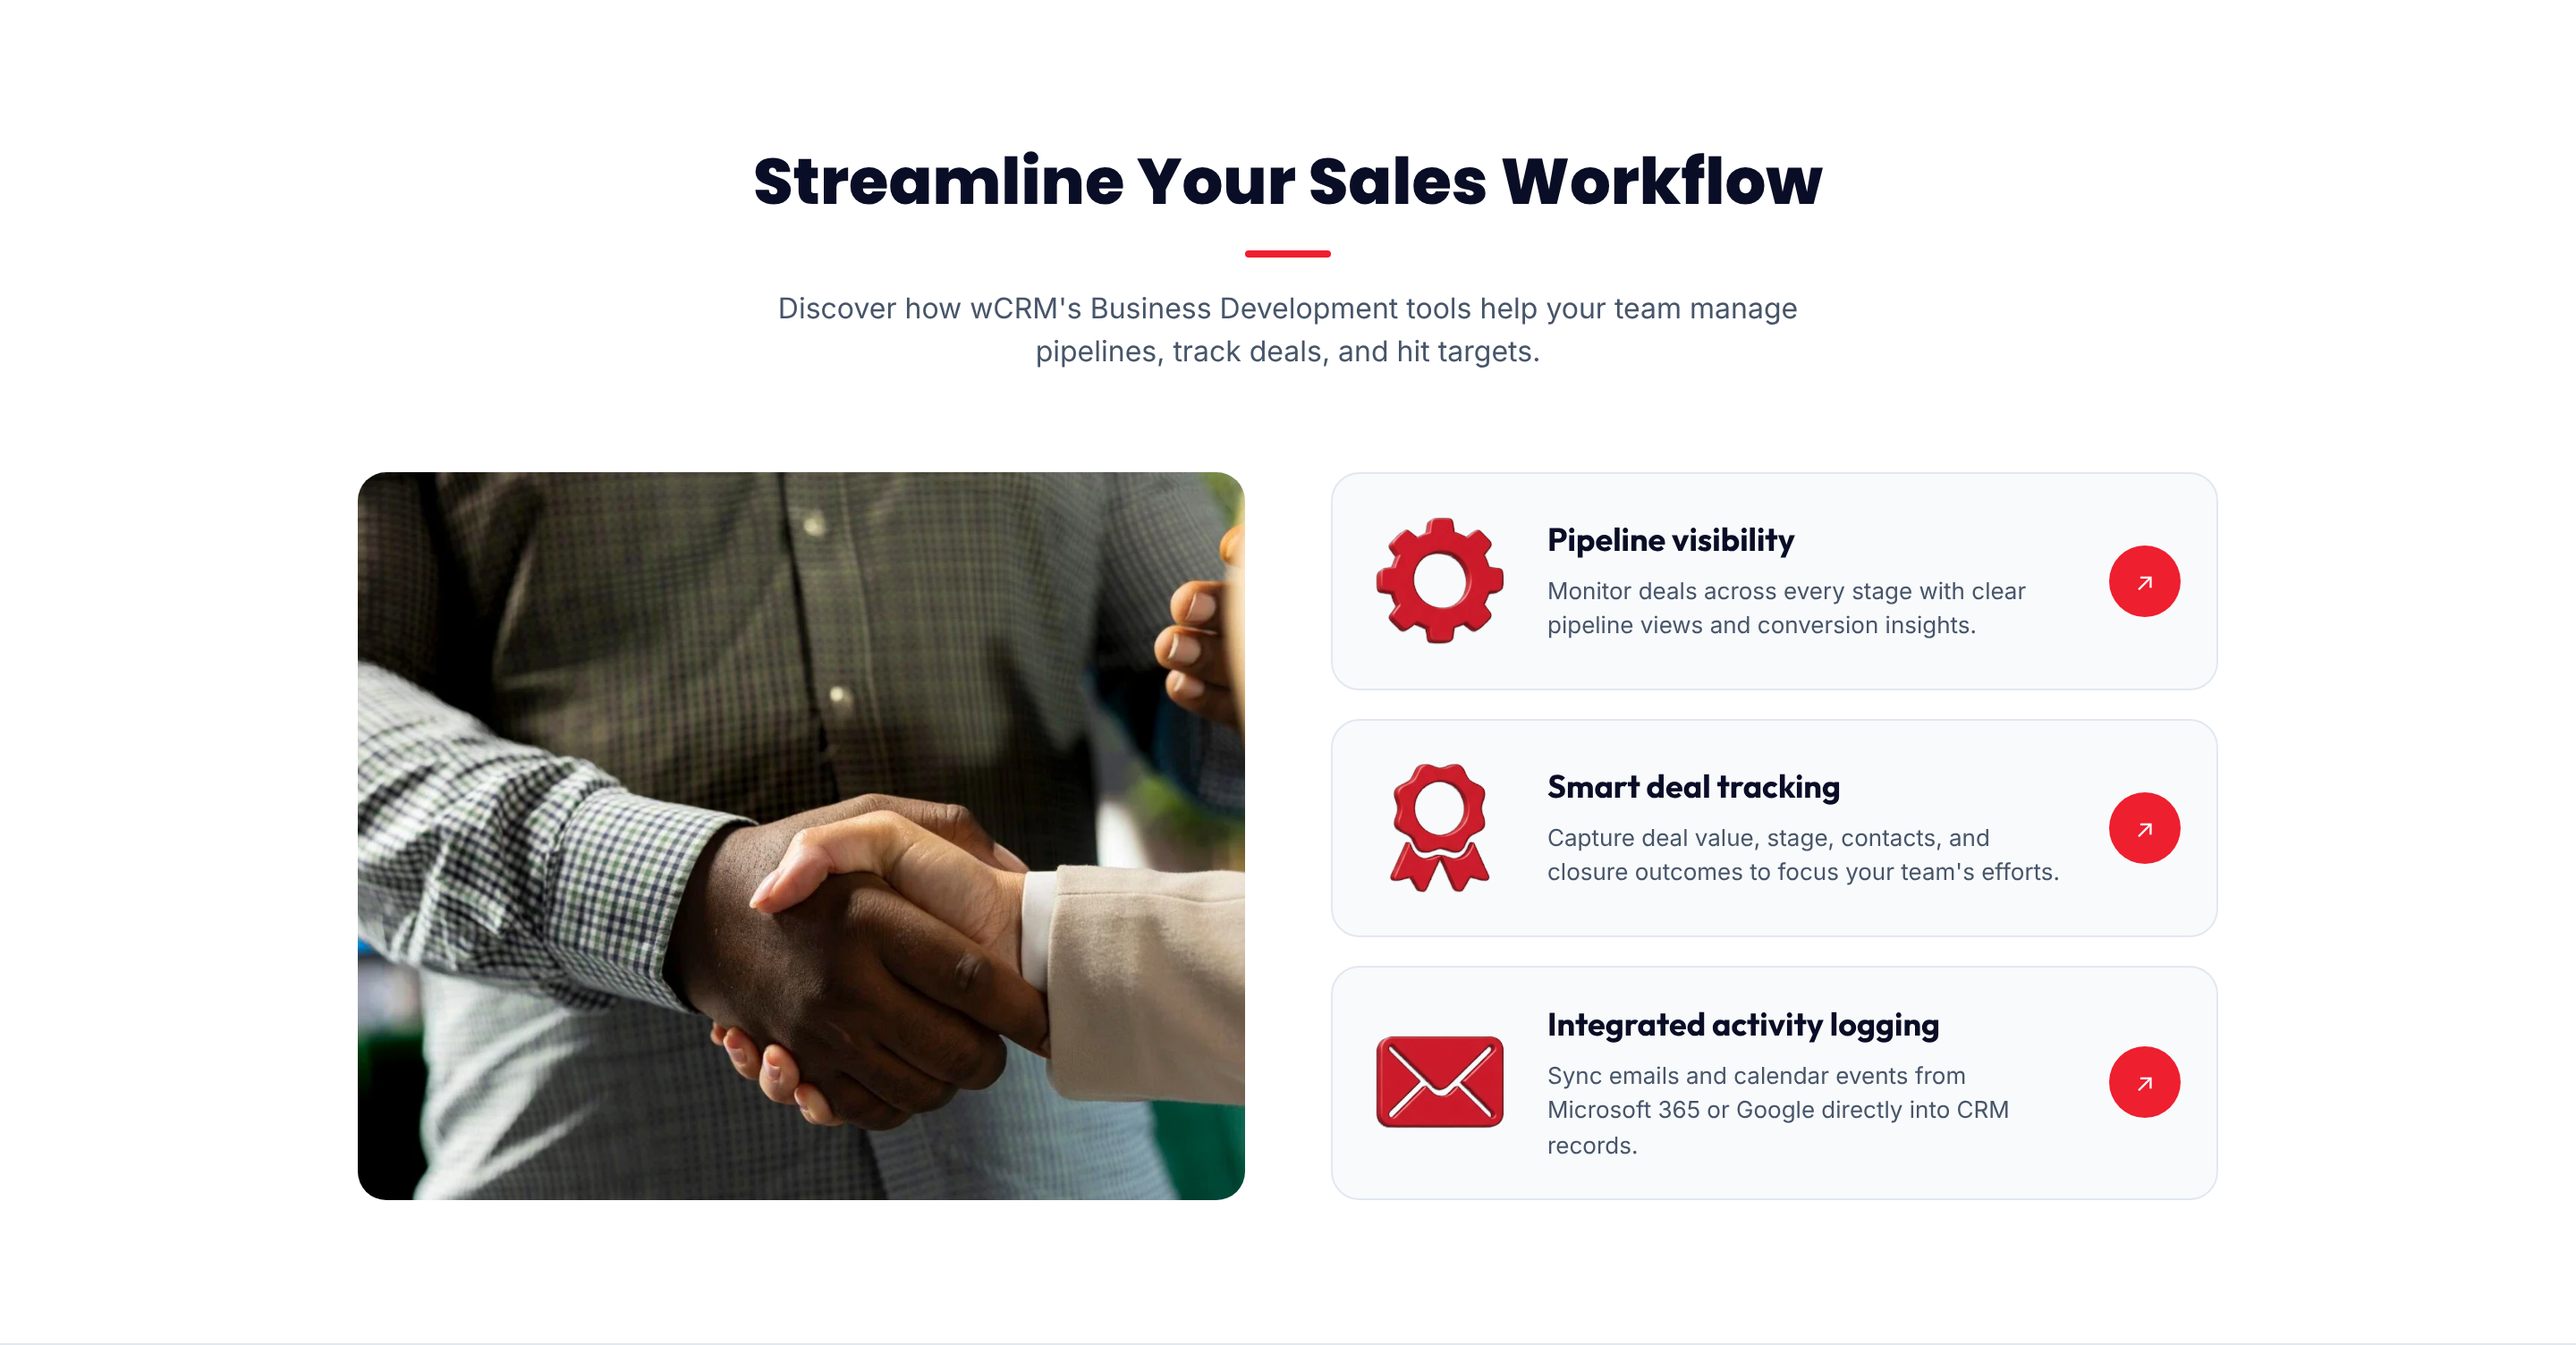
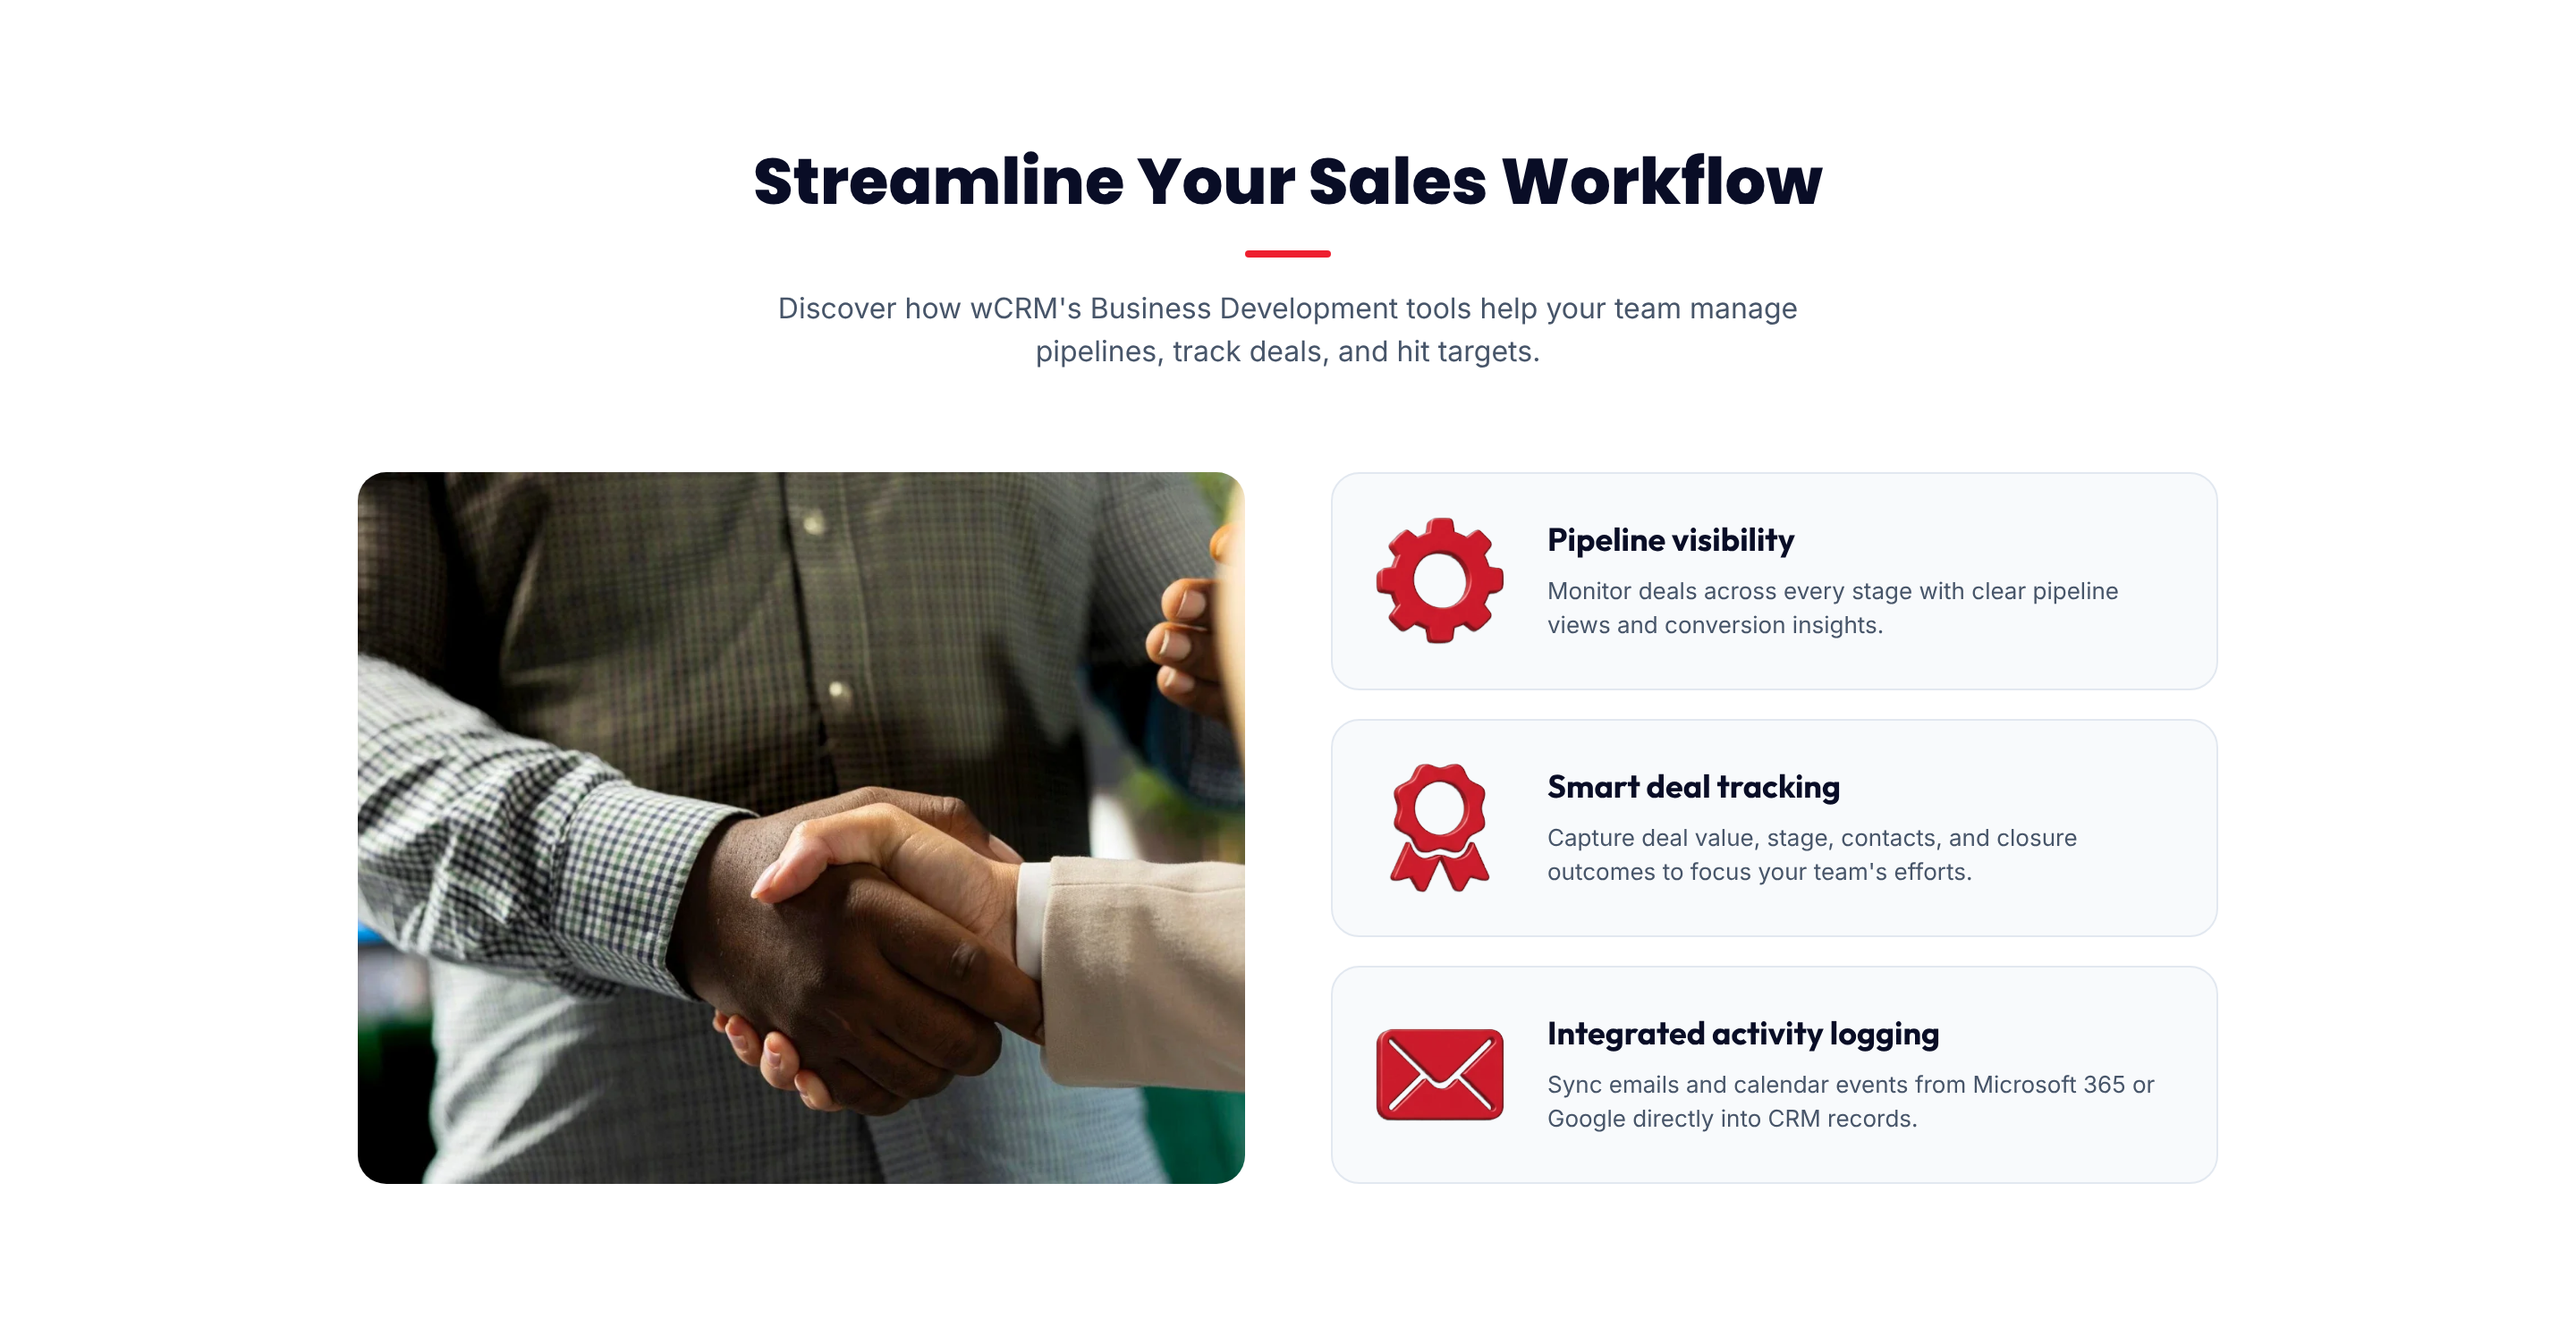
Concept homepage: plain See it at work shots; no buttons in Streamline
- See it at work: browser bar (dots and address) and arrow link removed;
  the shot sits in a plain rounded frame.
- Streamline cards no longer carry arrow links.

Claude-Session: https://claude.ai/code/session_01LwcCAsQhzDMqnBSRHS6q74

diff --git a/wCRM-website/src/pages/ConceptPage.tsx b/wCRM-website/src/pages/ConceptPage.tsx
@@ -458,11 +458,11 @@ function SocialProof() {
 
 /* 4 · Product tour (design-system Tabs) ------------------------------------------------------------------- */
 
-const SCREENS: { id: ShotId; label: string; to: string; points: string[] }[] = [
-  { id: 'deals', label: 'Deals', to: '/features/deal-management', points: ['Open, won and lost totals above the register', 'Profit and expected profit on every deal', 'Stage changes in one click'] },
-  { id: 'contacts', label: 'Contacts', to: '/features/contact-management', points: ['Import the lists you already keep', 'An owner on every contact', 'Search by name, email or company'] },
-  { id: 'reports', label: 'Reports', to: '/features/activities-reporting', points: ['Goal realization at a glance', 'Revenue by business stream', 'Export for reviews and board packs'] },
-  { id: 'budgets', label: 'Budgets', to: '/features/budget-targets', points: ['Targets split by team and practice area', 'Achieved from closed deals', 'Variance per allocation'] },
+const SCREENS: { id: ShotId; label: string; points: string[] }[] = [
+  { id: 'deals', label: 'Deals', points: ['Open, won and lost totals above the register', 'Profit and expected profit on every deal', 'Stage changes in one click'] },
+  { id: 'contacts', label: 'Contacts', points: ['Import the lists you already keep', 'An owner on every contact', 'Search by name, email or company'] },
+  { id: 'reports', label: 'Reports', points: ['Goal realization at a glance', 'Revenue by business stream', 'Export for reviews and board packs'] },
+  { id: 'budgets', label: 'Budgets', points: ['Targets split by team and practice area', 'Achieved from closed deals', 'Variance per allocation'] },
 ];
 
 function ProductTour() {
@@ -486,17 +486,8 @@ function ProductTour() {
                   </li>
                 ))}
               </ul>
-              <div className="flex flex-1 flex-col overflow-hidden rounded-xl border border-border-default bg-surface-default shadow-lg">
-                <div aria-hidden="true" className="flex items-center gap-1.5 border-b border-border-default bg-surface-subtle px-4 py-3">
-                  <span className="size-2.5 rounded-full bg-status-danger" />
-                  <span className="size-2.5 rounded-full bg-status-warning-bright" />
-                  <span className="size-2.5 rounded-full bg-status-success" />
-                  <span className="ml-4 flex-1 rounded-full bg-surface-sunken px-3 py-0.5 text-caption-xs text-text-muted">app.wcrm.com/{s.id}</span>
-                </div>
-                <div className="relative">
-                  <FullShot id={s.id} header={false} />
-                  <ArrowLink to={s.to} label={`See more about ${s.label}`} className="absolute bottom-4 right-4 shadow-lg" />
-                </div>
+              <div className="flex-1 overflow-hidden rounded-xl border border-border-default bg-surface-default shadow-lg">
+                <FullShot id={s.id} header={false} />
               </div>
             </div>
           </TabsContent>
@@ -551,9 +542,9 @@ function Foundation({ suggest }: { suggest: boolean }) {
 
 /* Copy from the homepage "Streamline Your Sales Workflow" section (Figma 691:5050); 3D icons supplied for this page. */
 const NEEDS = [
-  { title: 'Pipeline visibility', body: 'Monitor deals across every stage with clear pipeline views and conversion insights.', img: icon3dGear, to: '/features/deal-management' },
-  { title: 'Smart deal tracking', body: "Capture deal value, stage, contacts, and closure outcomes to focus your team's efforts.", img: icon3dAward, to: '/features/deal-management' },
-  { title: 'Integrated activity logging', body: 'Sync emails and calendar events from Microsoft 365 or Google directly into CRM records.', img: icon3dEnvelope, to: '/features/activities-reporting' },
+  { title: 'Pipeline visibility', body: 'Monitor deals across every stage with clear pipeline views and conversion insights.', img: icon3dGear },
+  { title: 'Smart deal tracking', body: "Capture deal value, stage, contacts, and closure outcomes to focus your team's efforts.", img: icon3dAward },
+  { title: 'Integrated activity logging', body: 'Sync emails and calendar events from Microsoft 365 or Google directly into CRM records.', img: icon3dEnvelope },
 ];
 
 function Streamline() {
@@ -570,7 +561,6 @@ function Streamline() {
                 <h3 className="font-outfit text-heading-2 text-site-ink">{n.title}</h3>
                 <p className="text-body-sm leading-150 text-text-slate">{n.body}</p>
               </div>
-              <ArrowLink to={n.to} label={`See more about ${n.title.toLowerCase()}`} />
             </li>
           ))}
         </ul>

diff --git a/wCRM-website/README.md b/wCRM-website/README.md
@@ -23,7 +23,7 @@ app's `node_modules`.
 | `/pricing` | `crm-pricing-page` (231:636): Monthly / Annual switch, plan cards, "Compare every included feature" table (`/pricing#compare` opens it; the homepage "View comparisons" button links there) |
 | `/contact` | `crm-contact-sales` (231:1058) → sent state (367:10351) |
 | `/features/:id` | Not in Figma; built in the site's style. One page per homepage feature (`contact-management`, `deal-management`, `activities-reporting`, `budget-targets`): hero with the product screen, capabilities, how it works, related features, call-to-action band. Content lives in `src/data/features.ts` |
-| `/concept` | Not in Figma; a concept homepage that applies a classic corporate-site layout (utility bar, photo hero, overlapping modules card, values band, "Streamline Your Sales Workflow", closing band) to wCRM, built from the site's components. "What wCRM does" is a bento grid of the seven Business Development modules (Budgets, Reports, Deals, Companies, Contacts, Activity, Orbit AI): each card holds a product widget (sample data, design-system tokens) or a product shot, with the title and description over a bottom vignette and the sidebar's design-system icon. Cards, widgets and the vignette (`bg-site-vignette`, built on `surface-subtle`) follow the page theme. Product shots come from `src/components/MarketingShots.tsx`: full pages without the top bar in the "See it at work" browser frames, inset (straight) Deals and Company windows in the bento. "Streamline Your Sales Workflow" uses the homepage section's copy, a supplied handshake photo and supplied 3D icons (`src/assets/concept/`, cut out of the supplied sheet with transparent backgrounds). Cards link onward with a round ↗ icon (bento cards, the "See it at work" window, the Streamline cards) instead of section "See more" buttons. Screenshot: [`docs/concept-homepage-placeholders.jpg`](docs/concept-homepage-placeholders.jpg) |
+| `/concept` | Not in Figma; a concept homepage that applies a classic corporate-site layout (utility bar, photo hero, overlapping modules card, values band, "Streamline Your Sales Workflow", closing band) to wCRM, built from the site's components. "What wCRM does" is a bento grid of the seven Business Development modules (Budgets, Reports, Deals, Companies, Contacts, Activity, Orbit AI): each card holds a product widget (sample data, design-system tokens) or a product shot, with the title and description over a bottom vignette and the sidebar's design-system icon. Cards, widgets and the vignette (`bg-site-vignette`, built on `surface-subtle`) follow the page theme. Product shots come from `src/components/MarketingShots.tsx`: full pages without the app's top bar in "See it at work" (plain rounded frame, no browser bar), inset (straight) Deals and Company windows in the bento. "Streamline Your Sales Workflow" uses the homepage section's copy, a supplied handshake photo and supplied 3D icons (`src/assets/concept/`, cut out of the supplied sheet with transparent backgrounds). The bento cards link onward with a round ↗ icon instead of section "See more" buttons. Screenshot: [`docs/concept-homepage-placeholders.jpg`](docs/concept-homepage-placeholders.jpg) |
 | `/concept/suggestions` | The same page with the remaining proposed changes, each marked by a numbered note: product card in the hero, a social-proof band, a photo in the values band, stock photos for resources, and a sales-rep photo beside the closing Contact us button. Screenshot of an earlier revision (before the bento modules): [`docs/concept-homepage-suggestions.jpg`](docs/concept-homepage-suggestions.jpg) |
 | `/concept/screens` | Export sheet: every "See it at work" shot (sidebar and content, no top bar) at its native 1617 × 797. Exported PNGs (full, inset, bento and Streamline in both themes; 2×) are in [`docs/screens/`](docs/screens) |
 | `/checkout/configure` | `crm-configure-plan` (231:956, several organisations 367:10622) + `wcrm-add-orgs-modal` (372:2334) |
